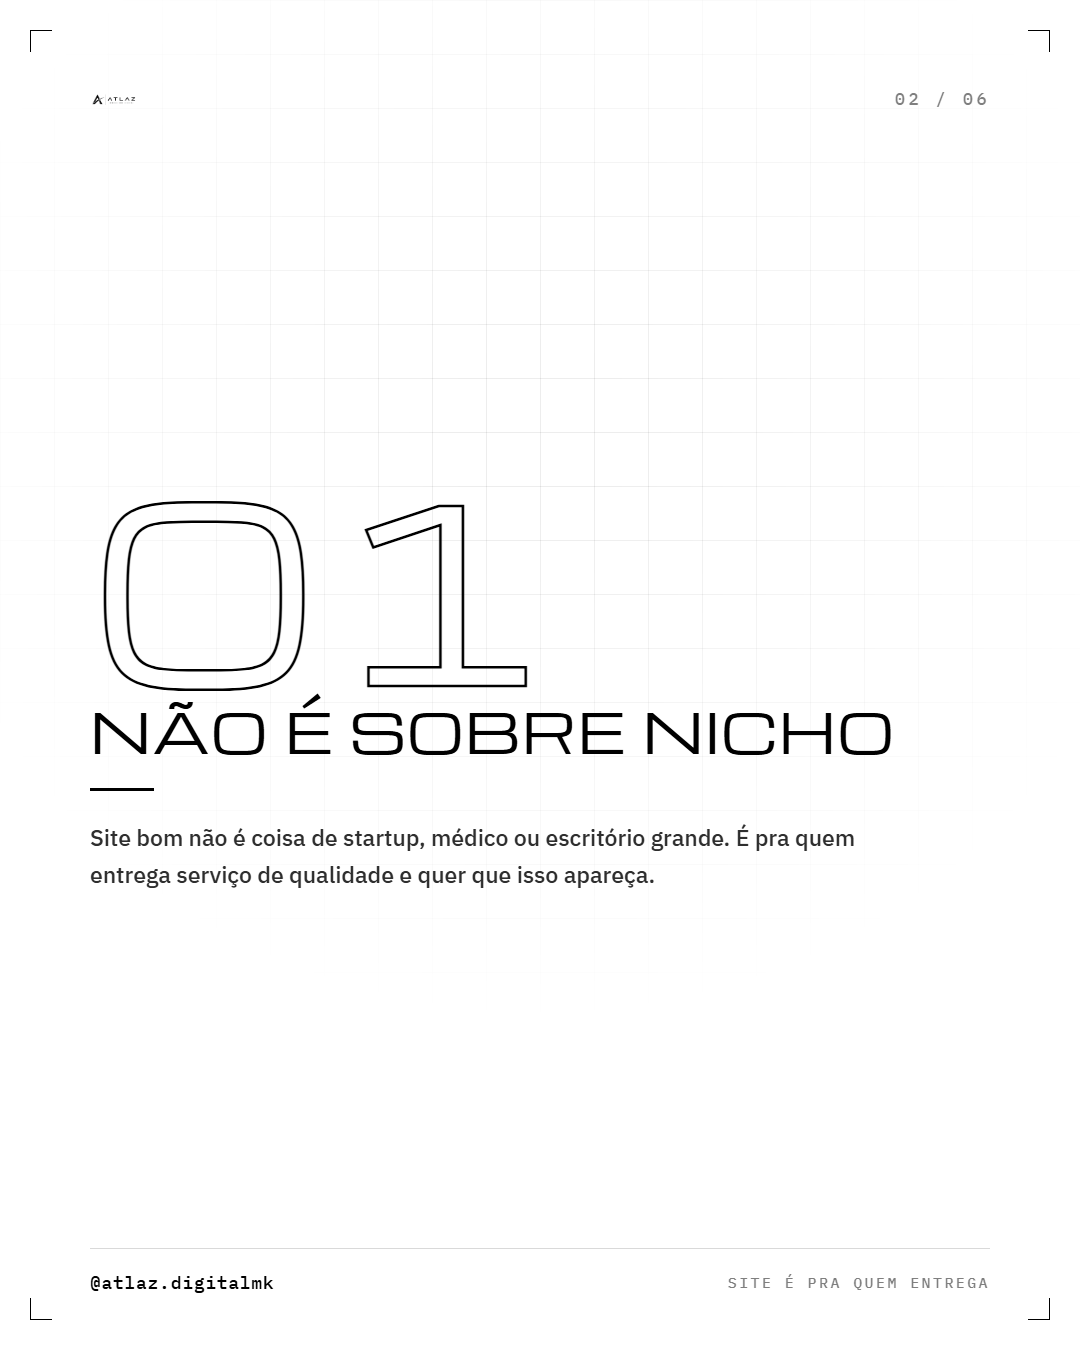
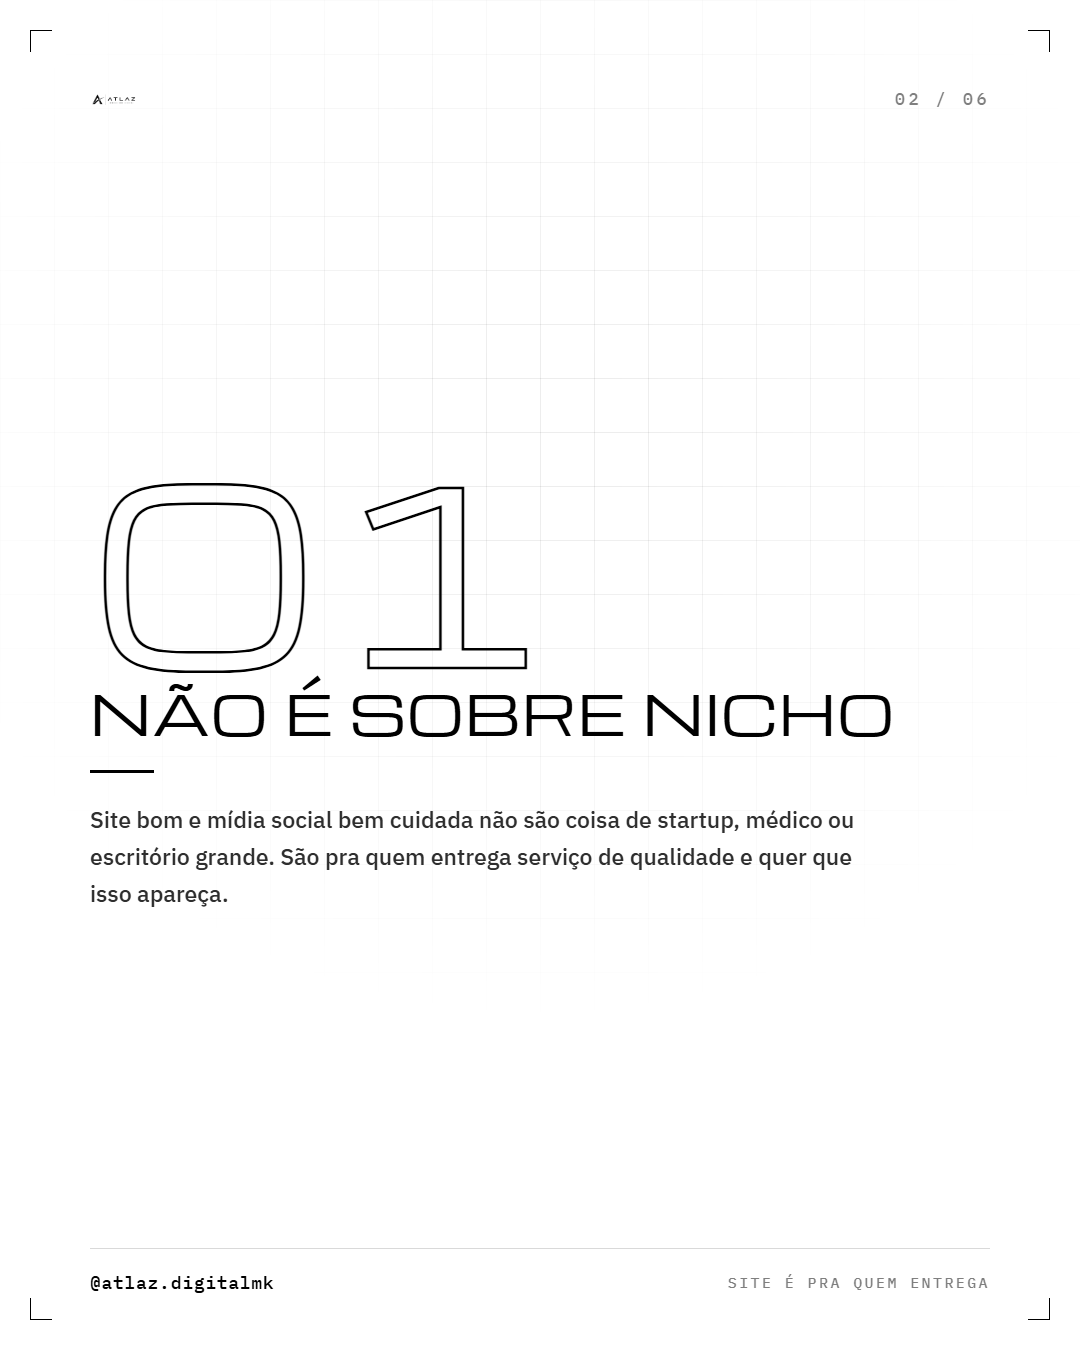
carrossel: inclui mídia social no argumento (não só site)
Ajusta título, corpo dos slides, CTA e legenda pra cobrir os dois
serviços — a peça falava só de site.

Changed region(s): [[0.0611, 0.3422, 0.825, 0.6844], [0.3361, 0.3422, 0.4278, 0.4044]]

diff --git a/marketing/conteudo/carrossel-site-pra-todo-mundo-2026-08-23/carrossel.html b/marketing/conteudo/carrossel-site-pra-todo-mundo-2026-08-23/carrossel.html
@@ -173,7 +173,7 @@
   <div class="capa-main">
     <div class="eyebrow">Uma dúvida comum</div>
     <img class="capa-logo" src="../../../identidade/variacoes/logo-lockup-linhas-black.png" alt="Atlaz Marketing Digital">
-    <div class="capa-sub">Preciso mesmo de uma repaginada? De um site profissional?</div>
+    <div class="capa-sub">Preciso mesmo de repaginar meu site e minha mídia social?</div>
   </div>
   <div class="footer">
     <div>@atlaz.digitalmk</div>
@@ -194,7 +194,7 @@
     <div class="num-giant">01</div>
     <h2 class="num-h2">Não é sobre nicho</h2>
     <div class="rule"></div>
-    <div class="num-body">Site bom não é coisa de startup, médico ou escritório grande. É pra quem entrega serviço de qualidade e quer que isso apareça.</div>
+    <div class="num-body">Site bom e mídia social bem cuidada não são coisa de startup, médico ou escritório grande. São pra quem entrega serviço de qualidade e quer que isso apareça.</div>
   </div>
   <div class="footer">
     <div>@atlaz.digitalmk</div>
@@ -236,7 +236,7 @@
     <div class="num-giant">03</div>
     <h2 class="num-h2">Não precisa ser grande pra merecer</h2>
     <div class="rule"></div>
-    <div class="num-body">MEI, autônomo, prestador local. Todo mundo que entrega serviço de verdade merece uma página que mostra isso com clareza.</div>
+    <div class="num-body">MEI, autônomo, prestador local. Todo mundo que entrega serviço de verdade merece um site e uma mídia social que mostrem isso com clareza.</div>
   </div>
   <div class="footer">
     <div>@atlaz.digitalmk</div>
@@ -257,7 +257,7 @@
     <div class="eyebrow">Pra quem</div>
     <h2 class="quem-h2">Se você entrega,<br>merece aparecer bem</h2>
     <div class="rule"></div>
-    <div class="quem-body">Um site não é enfeite pra empresa grande. É a forma mais simples de mostrar que o seu trabalho é sério, pra qualquer tamanho de negócio.</div>
+    <div class="quem-body">Site e mídia social não são enfeite pra empresa grande. São a forma mais simples de mostrar que o seu trabalho é sério, pra qualquer tamanho de negócio.</div>
   </div>
   <div class="footer">
     <div>@atlaz.digitalmk</div>
@@ -276,7 +276,7 @@
   </div>
   <div class="cta-main">
     <img class="cta-logo" src="../../../identidade/variacoes/logo-lockup-black.png" alt="Atlaz Marketing Digital">
-    <h2 class="cta-h2">Vamos falar sobre seu site</h2>
+    <h2 class="cta-h2">Vamos falar sobre sua presença digital</h2>
     <div class="cta-contact">WhatsApp +55 69 98454-9293</div>
     <div class="cta-handle">@atlaz.digitalmk</div>
   </div>

diff --git a/marketing/conteudo/carrossel-site-pra-todo-mundo-2026-08-23/legenda.md b/marketing/conteudo/carrossel-site-pra-todo-mundo-2026-08-23/legenda.md
@@ -1,12 +1,12 @@
-# Legenda — Preciso mesmo de um site? (Instagram + Facebook)
+# Legenda — Preciso mesmo de site e mídia social? (Instagram + Facebook)
 
-Preciso mesmo de uma repaginada? De um site profissional? Se você já se fez essa pergunta, esse post é pra você.
+Preciso mesmo de repaginar meu site e minha mídia social? Se você já se fez essa pergunta, esse post é pra você.
 
-Site bom não é coisa de startup, médico ou escritório grande. É pra quem entrega serviço de qualidade e quer que isso apareça. Se a primeira impressão do seu trabalho é um perfil desorganizado ou nenhuma página, o cliente desconfia antes de te conhecer.
+Site bom e mídia social bem cuidada não são coisa de startup, médico ou escritório grande. São pra quem entrega serviço de qualidade e quer que isso apareça. Se a primeira impressão do seu trabalho é um perfil desorganizado ou nenhuma página, o cliente desconfia antes de te conhecer.
 
 Arraste pro lado e entenda por que isso vale pra qualquer tamanho de negócio.
 
-MEI, autônomo, prestador local: todo mundo que entrega serviço de verdade merece uma página que mostra isso com clareza. Fala com a gente pelo WhatsApp: +55 69 98454-9293.
+MEI, autônomo, prestador local: todo mundo que entrega serviço de verdade merece um site e uma mídia social que mostrem isso com clareza. Fala com a gente pelo WhatsApp: +55 69 98454-9293.
 
 #marketingdigital #sitesprofissionais #instagramparanegocios #consultoriademarketing #prestadoresdeservico #pequenosnegocios #mei #empreendedorismo #comunicacaovisual #negociosb2b #agenciadigital #presencadigital
 
@@ -14,10 +14,10 @@ MEI, autônomo, prestador local: todo mundo que entrega serviço de verdade mere
 
 ## Legenda — LinkedIn (mais formal, se for postar lá também)
 
-Um site profissional não é exclusividade de empresas grandes. É a forma mais simples de mostrar que um serviço é entregue com qualidade, seja qual for o porte do negócio.
+Um site profissional e uma mídia social bem cuidada não são exclusividade de empresas grandes. São a forma mais simples de mostrar que um serviço é entregue com qualidade, seja qual for o porte do negócio.
 
 Se a primeira impressão do seu trabalho é um perfil desorganizado ou nenhuma página, o cliente desconfia antes mesmo de conhecer o que você faz.
 
-A Atlaz Marketing Digital cria sites pra prestadores de serviço, MEI, ME e LTDA que querem que a presença digital esteja à altura do que entregam.
+A Atlaz Marketing Digital cria sites e mídia social pra prestadores de serviço, MEI, ME e LTDA que querem que a presença digital esteja à altura do que entregam.
 
 Contato: WhatsApp +55 69 98454-9293 | Instagram @atlaz.digitalmk

diff --git a/marketing/calendario-conteudo.md b/marketing/calendario-conteudo.md
@@ -32,4 +32,4 @@ Os temas alternam entre três ângulos, nessa ordem, pra não cansar o feed:
 | 2026-08-23 | Apresentação da Atlaz | `marketing/conteudo/carrossel-apresentacao-atlaz-2026-08-23/` |
 | 2026-08-23 | 5 erros comuns no Instagram de prestador de serviço | `marketing/conteudo/carrossel-5-erros-instagram-prestador-2026-08-23/` |
 | 2026-08-23 | Seu Instagram não vende | `marketing/conteudo/carrossel-instagram-nao-vende-2026-08-23/` |
-| 2026-08-23 | Preciso mesmo de um site? (site é pra quem entrega, não só pra nicho específico) — criado manualmente, fora da fila | `marketing/conteudo/carrossel-site-pra-todo-mundo-2026-08-23/` |
+| 2026-08-23 | Preciso mesmo de site e mídia social? (presença digital é pra quem entrega, não só pra nicho específico) — criado manualmente, fora da fila | `marketing/conteudo/carrossel-site-pra-todo-mundo-2026-08-23/` |
